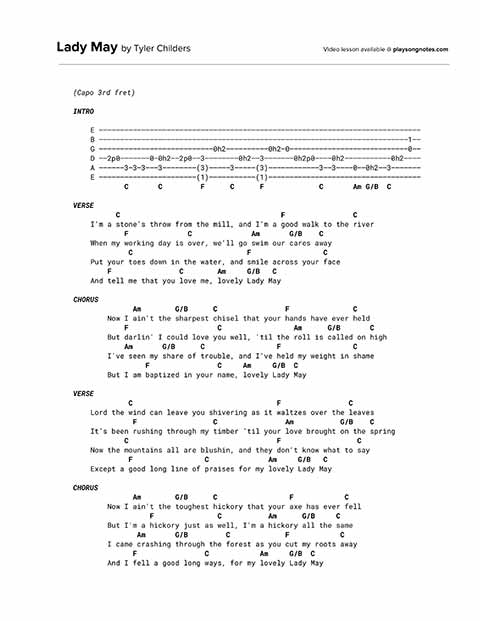
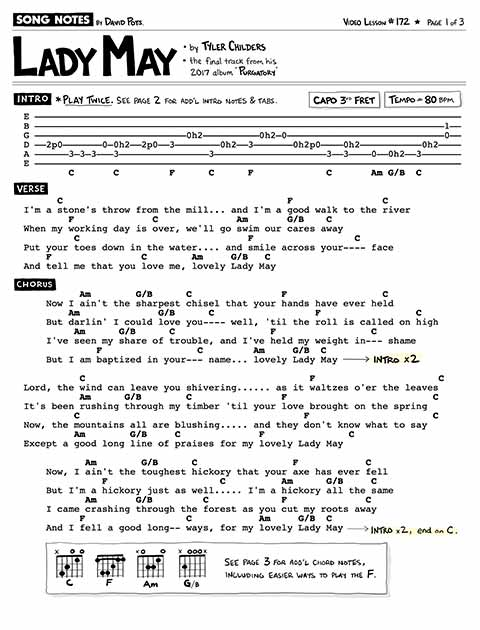
Adds lady may url mn

Changed region(s): [[0.0, 0.0, 0.9688, 0.9485]]

diff --git a/_lessons/172 [Tyler Childers] Lady May.md b/_lessons/172 [Tyler Childers] Lady May.md
@@ -11,8 +11,9 @@ yt_video_id: bmRLWIJ2dLc
 slug: "172"
 redirect_from:
   - /songs/tyler-childers-lady-may/
-pdf_version: copyright
+pdf_version: musicnotes
 pdf_numpages: 3
+musicnotes_url: https://www.musicnotes.com/l/2zzMZ
 patreon_lesson_available: true
 patreon_lesson_url: https://www.patreon.com/posts/21287497
 ---
@@ -38,85 +39,11 @@ In this lesson I'll show you how to play "Lady May" by Tyler Childers, from his 
 
 ## Lyrics w/ chords
 
-    (Capo 3rd fret)
+See my sheet music for the lyrics and chords, with intro tab, all shown on a single print-friendly page.
 
-    INTRO
+<!-- (Capo 3rd fret)
 
-        E ––––––––––––––––––––––––––––––––––––––––––––––––––––––––––––––––––––––––––––
-        B –––––––––––––––––––––––––––––––––––––––––––––––––––––––––––––––––––––––––1––
-        G –––––––––––––––––––––––––––0h2––––––––––0h2–0––––––––––––––––––––––––––––0––
-        D ––2p0–––––––0–0h2––2p0––3––––––––0h2––3–––––––0h2p0––––0h2–––––––––––0h2––––
-        A ––––––3–3–3–––3––––––––(3)–––––3–––––(3)––––––––––––3––3––––0––0h2––3–––––––
-        E –––––––––––––––––––––––(1)–––––––––––(1)––––––––––––––––––––––––––––––––––––
-                C       C         F      C      F             C       Am G/B  C        
-
-    VERSE
-              C                                      F                C
-        I'm a stone's throw from the mill, and I'm a good walk to the river
-                F              C              Am       G/B    C
-        When my working day is over, we'll go swim our cares away
-                 C                           F                 C
-        Put your toes down in the water, and smile across your face
-            F                C        Am     G/B   C
-        And tell me that you love me, lovely Lady May
-
-    CHORUS
-                  Am        G/B      C                F               C
-            Now I ain't the sharpest chisel that your hands have ever held
-                F                     C                 Am      G/B       C
-            But darlin' I could love you well, 'til the roll is called on high
-                Am       G/B      C                 F                 C
-            I've seen my share of trouble, and I've held my weight in shame
-                     F                C     Am     G/B  C
-            But I am baptized in your name, lovely Lady May
-
-    VERSE
-                 C                                  F                C
-        Lord the wind can leave you shivering as it waltzes over the leaves
-                  F                  C                Am           G/B    C
-        It's been rushing through my timber 'til your love brought on the spring
-                C                                   F                  C
-        Now the mountains all are blushin, and they don't know what to say
-                 F                 C              Am     G/B   C
-        Except a good long line of praises for my lovely Lady May
-
-    CHORUS
-                  Am        G/B      C                 F            C
-            Now I ain't the toughest hickory that your axe has ever fell
-                      F               C           Am      G/B     C
-            But I'm a hickory just as well, I'm a hickory all the same
-                   Am       G/B         C             F            C
-            I came crashing through the forest as you cut my roots away
-                  F                C            Am     G/B  C
-            And I fell a good long ways, for my lovely Lady May
-
-## Intro (simple version)
-
-Here's the main melody notes of the intro. In this simplified version, I'm not including any of the hammer-ons or pull-offs. Don't worry about adding those until you have this foundation memorized.
-
-    E –––––––––––––––––––––––––––––––––––––––––––––––––––––––––––––––––––––––
-    B –––––––––––––––––––––––––––––––––––––––––––––––––––––––––––––––––––––––
-    G ––––––––––––––––––––––––––0–2–––––––––––2–0–––––––––––––––––––––––––0––
-    D ––2–0–––––––0–0–2–2–0–3–––––––––––0–2–3–––––2–––––0–2–––––––––––0–2––––
-    A ––––––3–3–3–––––––––––––––––––3–––––––––––––––3–––––––0–––2–––3––––––––
-    E –––––––––––––––––––––––––––––––––––––––––––––––––––––––––––––––––––––––
-            C       C       F       C       F       C       Am G/B  C        
-            1 + 2 + 3 + 4 + 1 + 2 + 3 + 4 + 1 + 2 + 3 + 4 + 1 + 2 + 3 + 4 +
-
-Also, while learning the melody riff above, understand that these are the chord shapes you'll want to have your left hand in while playing (if you can manage it). This sets you up nicely for doing full strums of any of these chords should you want to dial-down the riff and amp-up the rhythm strumming.
-
-    E –––––––––––––––––––––––––––––––––––––––––––––––––––––––––––––––––––––––
-    B ––––––1–––––––1–––––––1–––––––1–––––––1–––––––1–––––––1–––0–––1––––––––
-    G ––––––0–––––––0–––––––2–––––––0–––––––2–––––––0–––––––2–––0–––0––––––––
-    D ––––––2–––––––2–––––––3–––––––2–––––––3–––––––2–––––––2–––0–––2––––––––
-    A ––––––3–––––––3–––––––––––––––3–––––––––––––––3–––––––0–––2–––3––––––––
-    E –––––––––––––––––––––––––––––––––––––––––––––––––––––––––––––––––––––––
-            C       C       F       C       F       C       Am G/B  C         
-            1 + 2 + 3 + 4 + 1 + 2 + 3 + 4 + 1 + 2 + 3 + 4 + 1 + 2 + 3 + 4 +
-
-## Intro (w/ nuance)
-
-Here's the main melody notes of the intro. Here, I'm showing the hammer-ons and pull-offs that you hear on the album version of the song.
+INTRO
 
     E ––––––––––––––––––––––––––––––––––––––––––––––––––––––––––––––––––––––––––––
     B –––––––––––––––––––––––––––––––––––––––––––––––––––––––––––––––––––––––––1––
@@ -126,21 +53,106 @@ Here's the main melody notes of the intro. Here, I'm showing the hammer-ons and 
     E –––––––––––––––––––––––(1)–––––––––––(1)––––––––––––––––––––––––––––––––––––
             C       C         F      C      F             C       Am G/B  C        
 
+VERSE
+          C                                      F                C
+    I'm a stone's throw from the mill, and I'm a good walk to the river
+            F              C              Am       G/B    C
+    When my working day is over, we'll go swim our cares away
+             C                           F                 C
+    Put your toes down in the water, and smile across your face
+        F                C        Am     G/B   C
+    And tell me that you love me, lovely Lady May
+
+CHORUS
+              Am        G/B      C                F               C
+        Now I ain't the sharpest chisel that your hands have ever held
+            F                     C                 Am      G/B       C
+        But darlin' I could love you well, 'til the roll is called on high
+            Am       G/B      C                 F                 C
+        I've seen my share of trouble, and I've held my weight in shame
+                 F                C     Am     G/B  C
+        But I am baptized in your name, lovely Lady May
+
+VERSE
+             C                                  F                C
+    Lord the wind can leave you shivering as it waltzes over the leaves
+              F                  C                Am           G/B    C
+    It's been rushing through my timber 'til your love brought on the spring
+            C                                   F                  C
+    Now the mountains all are blushin, and they don't know what to say
+             F                 C              Am     G/B   C
+    Except a good long line of praises for my lovely Lady May
+
+CHORUS
+              Am        G/B      C                 F            C
+        Now I ain't the toughest hickory that your axe has ever fell
+                  F               C           Am      G/B     C
+        But I'm a hickory just as well, I'm a hickory all the same
+               Am       G/B         C             F            C
+        I came crashing through the forest as you cut my roots away
+              F                C            Am     G/B  C
+        And I fell a good long ways, for my lovely Lady May -->
+
+## Intro (simple version)
+
+Here's the main melody notes of the intro. In this simplified version, I'm not including any of the hammer-ons or pull-offs. Don't worry about adding those until you have this foundation memorized.
+
+    See sheet music for the tab.
+
+<!-- E –––––––––––––––––––––––––––––––––––––––––––––––––––––––––––––––––––––––
+B –––––––––––––––––––––––––––––––––––––––––––––––––––––––––––––––––––––––
+G ––––––––––––––––––––––––––0–2–––––––––––2–0–––––––––––––––––––––––––0––
+D ––2–0–––––––0–0–2–2–0–3–––––––––––0–2–3–––––2–––––0–2–––––––––––0–2––––
+A ––––––3–3–3–––––––––––––––––––3–––––––––––––––3–––––––0–––2–––3––––––––
+E –––––––––––––––––––––––––––––––––––––––––––––––––––––––––––––––––––––––
+        C       C       F       C       F       C       Am G/B  C        
+        1 + 2 + 3 + 4 + 1 + 2 + 3 + 4 + 1 + 2 + 3 + 4 + 1 + 2 + 3 + 4 + -->
+
+Also, while learning the melody riff above, understand that these are the chord shapes you'll want to have your left hand in while playing (if you can manage it). This sets you up nicely for doing full strums of any of these chords should you want to dial-down the riff and amp-up the rhythm strumming.
+
+    See sheet music for the tab.
+
+<!-- E –––––––––––––––––––––––––––––––––––––––––––––––––––––––––––––––––––––––
+B ––––––1–––––––1–––––––1–––––––1–––––––1–––––––1–––––––1–––0–––1––––––––
+G ––––––0–––––––0–––––––2–––––––0–––––––2–––––––0–––––––2–––0–––0––––––––
+D ––––––2–––––––2–––––––3–––––––2–––––––3–––––––2–––––––2–––0–––2––––––––
+A ––––––3–––––––3–––––––––––––––3–––––––––––––––3–––––––0–––2–––3––––––––
+E –––––––––––––––––––––––––––––––––––––––––––––––––––––––––––––––––––––––
+        C       C       F       C       F       C       Am G/B  C         
+        1 + 2 + 3 + 4 + 1 + 2 + 3 + 4 + 1 + 2 + 3 + 4 + 1 + 2 + 3 + 4 + -->
+
+## Intro (w/ nuance)
+
+Here's the main melody notes of the intro. Here, I'm showing the hammer-ons and pull-offs that you hear on the album version of the song.
+
+    See sheet music for the tab.
+
+<!-- E ––––––––––––––––––––––––––––––––––––––––––––––––––––––––––––––––––––––––––––
+B –––––––––––––––––––––––––––––––––––––––––––––––––––––––––––––––––––––––––1––
+G –––––––––––––––––––––––––––0h2––––––––––0h2–0––––––––––––––––––––––––––––0––
+D ––2p0–––––––0–0h2––2p0––3––––––––0h2––3–––––––0h2p0––––0h2–––––––––––0h2––––
+A ––––––3–3–3–––3––––––––(3)–––––3–––––(3)––––––––––––3––3––––0––0h2––3–––––––
+E –––––––––––––––––––––––(1)–––––––––––(1)––––––––––––––––––––––––––––––––––––
+        C       C         F      C      F             C       Am G/B  C         -->
+
 And, understand these are the implied chord shapes played underneath. Sometimes you may want to lean into plucking strings from these chords while you're making your way through the riff. Listen to Tyler Childer's version - you'll hear him sneak in occasional notes from these chords, as no doubt his hands are in these chord positions as he moves his way through.
 
-    E ––––––––––––––––––––––––––––––––––––––––––––––––––––––––––––––––––––––––––––
-    B ––––––1–––––––1–––––––––1––––––1––––––1–––––––––––––1–––––––1–––0–––1–––––––
-    G ––––––0–––––––0–––––––––2––––––0––––––2–––––––––––––0–––––––2–––0–––0–––––––
-    D ––––––2–––––––2–––––––––3––––––2––––––3–––––––––––––2–––––––2–––0–––2–––––––
-    A ––––––3–––––––3––––––––(3)–––––3–––––(3)––––––––––––3–––––––0–––2–––3–––––––
-    E ––––––––––––––––––––––––––––––––––––––––––––––––––––––––––––––––––––––––––––
-            C       C         F      C      F             C       Am G/B  C       
+    See sheet music for the tab.
+
+<!-- E ––––––––––––––––––––––––––––––––––––––––––––––––––––––––––––––––––––––––––––
+B ––––––1–––––––1–––––––––1––––––1––––––1–––––––––––––1–––––––1–––0–––1–––––––
+G ––––––0–––––––0–––––––––2––––––0––––––2–––––––––––––0–––––––2–––0–––0–––––––
+D ––––––2–––––––2–––––––––3––––––2––––––3–––––––––––––2–––––––2–––0–––2–––––––
+A ––––––3–––––––3––––––––(3)–––––3–––––(3)––––––––––––3–––––––0–––2–––3–––––––
+E ––––––––––––––––––––––––––––––––––––––––––––––––––––––––––––––––––––––––––––
+        C       C         F      C      F             C       Am G/B  C        -->
 
 ## How to play the chords
 
 Here's how to play the chords used in this song -- including a few simplified ways to play the F chord (you don't need to play all 6 strings to make it work).
 
     Main chord shapes:                 Simplified F positions:
+    
     E –––0––––1––––0––––––––           –––––   –––––   –––––
     B –––1––––1––––1––––0–––           ––1––   ––1––   –––––
     G –––0––––2––––2––––0–––           ––2––   ––2––   ––2––
